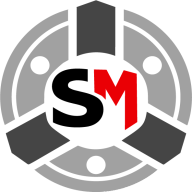
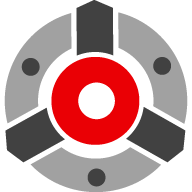
new fav

diff --git a/resources/views/components/layouts/app.blade.php b/resources/views/components/layouts/app.blade.php
@@ -4,14 +4,14 @@
 <html lang="{{ str_replace('_', '-', app()->getLocale()) }}" class="scrollbar-w-0.5 scrollbar scrollbar-thumb-brand-green scrollbar-track-zinc-50">
 
 <head>
-<link rel="icon" href="/favicon.ico?v=2" sizes="any">
-<link rel="icon" href="/favicon.svg?v=2" type="image/svg+xml">
-<link rel="icon" href="/favicon-32x32.png?v=2" type="image/png" sizes="32x32">
-<link rel="icon" href="/favicon-16x16.png?v=2" type="image/png" sizes="16x16">
 
-<link rel="apple-touch-icon" sizes="180x180" href="/apple-touch-icon.png?v=2">
-
+<link rel="icon" type="image/svg+xml" href="/favicon.svg?v=4">
+<link rel="icon" type="image/png" sizes="32x32" href="/favicon-32x32.png?v=4">
+<link rel="icon" type="image/png" sizes="16x16" href="/favicon-16x16.png?v=4">
+<link rel="shortcut icon" href="/favicon.ico?v=4">
+<link rel="apple-touch-icon" sizes="180x180" href="/apple-touch-icon.png?v=4">
 <link rel="manifest" href="/site.webmanifest">
+
 <meta name="theme-color" content="#ffffff">
     @include('partials.head', ['title' => $title])
     @stack('head')

diff --git a/resources/views/components/layouts/partials/footer.blade.php b/resources/views/components/layouts/partials/footer.blade.php
@@ -4,7 +4,8 @@
         <div class="flex flex-col items-start space-y-6 md:col-span-2 lg:col-span-1">
             <a href="{{ route('home') }}" aria-label="На главную" class="block w-full max-w-72">
                 <x-icon name="logo"
-                    class="h-auto w-full [&_.brand-gray]:text-white [&_.white]:text-zinc-700 [&_.brand-red]:text-white [&_.brand-dark]:text-white" />
+                    class="h-auto w-full [&_.brand-gray]:text-white [&_.white]:text-zinc-700 [&_.brand-red]:text-white [&_.brand-dark]:text-white"
+                    style="--logo-dot-color: #404040;" />
             </a>
             <span>Профессиональный инструмент и оборудование</span>
             <span>ПН - Пт: 9:00 - 18:00
